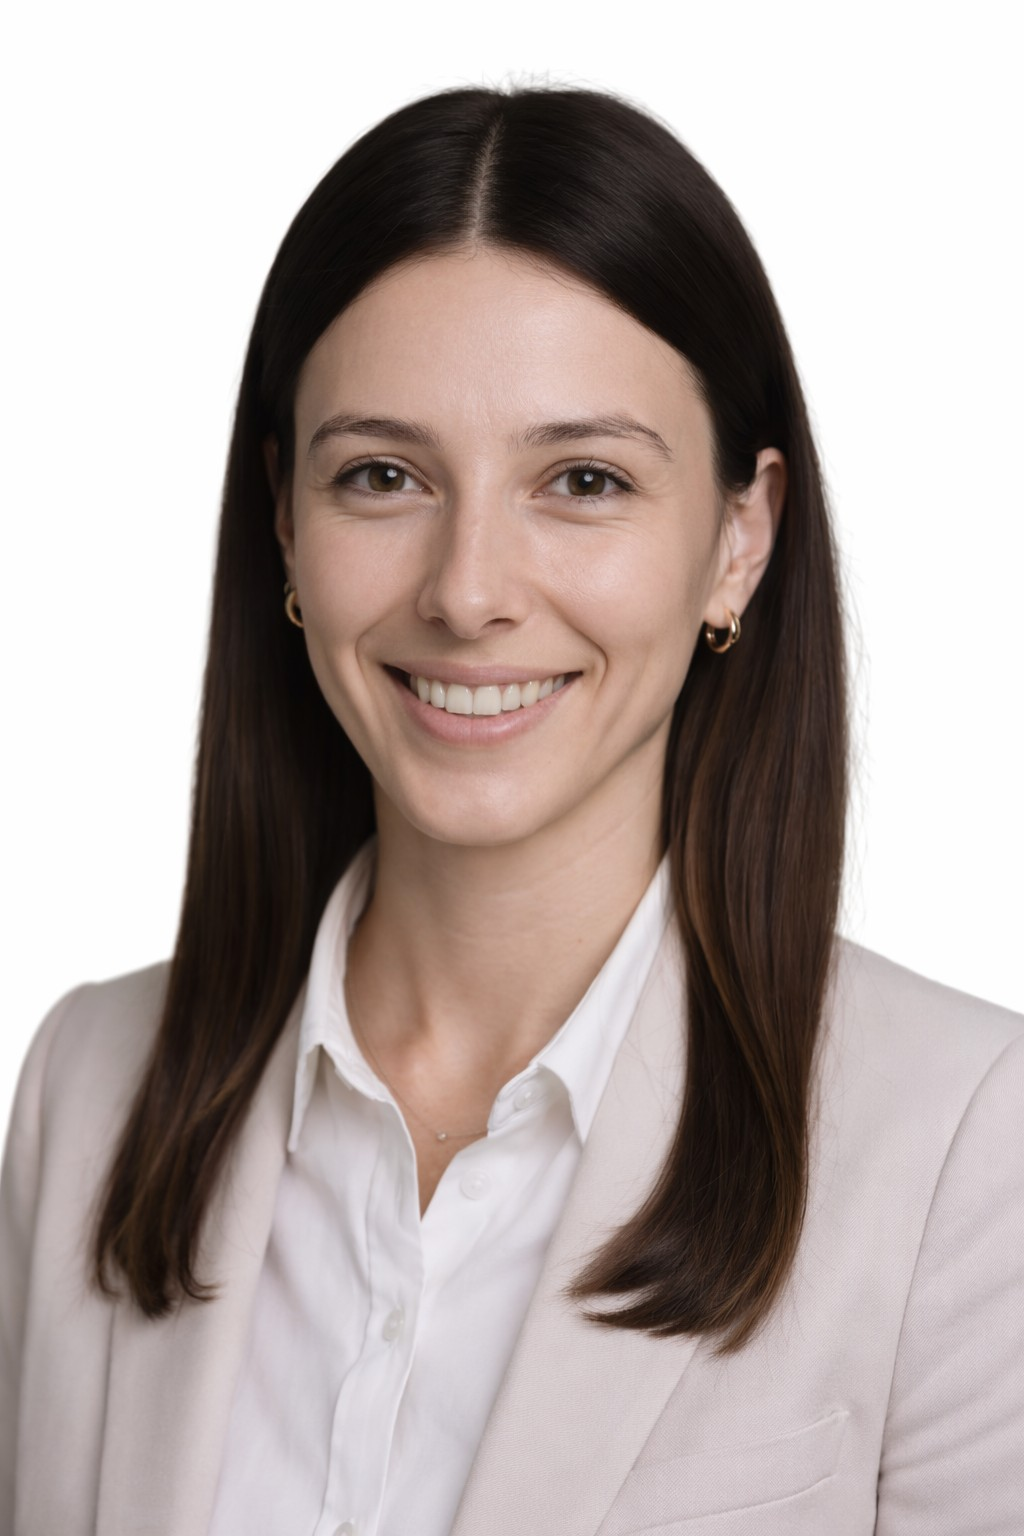
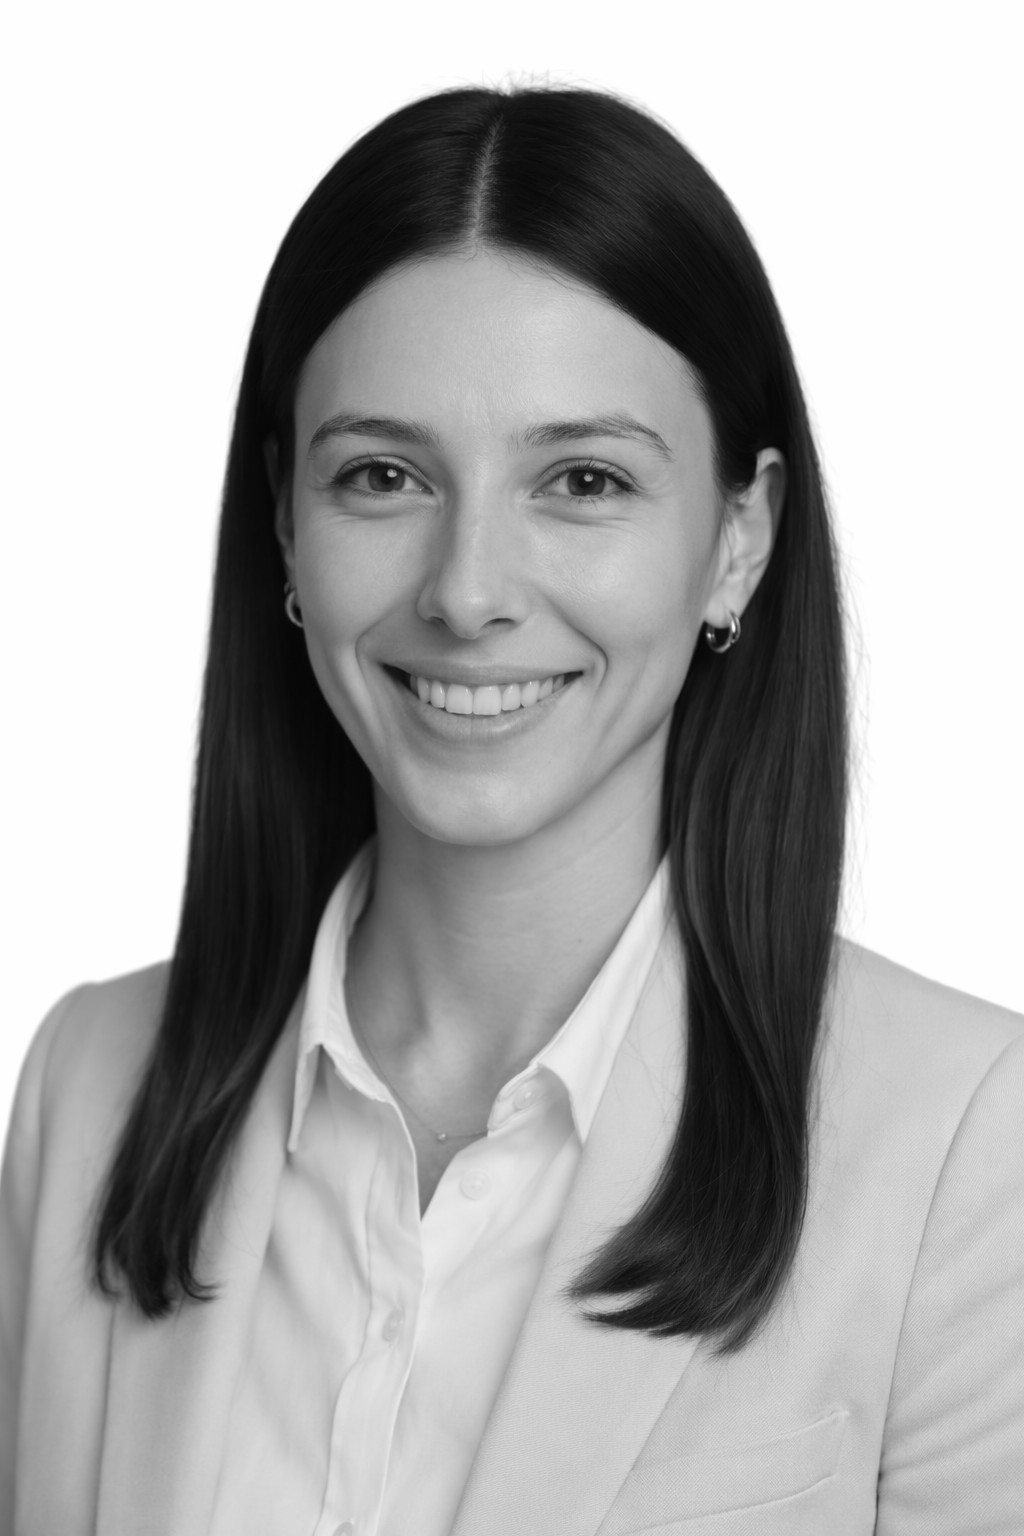
Leadership portraits: lossless B&W sources, higher-fidelity delivery
Re-master the four executive headshots from the full-resolution originals as
lossless grayscale PNGs (was: recompressed color JPEGs relying on the CSS
grayscale filter), and stop under-requesting them at render time. Cards asked
for 320px at q82, so a 592px retina card got a 640w q82 webp and every face
read soft; the modal reused the same 320px hint at ~2x the display size.

Changed region(s): [[0.2812, 0.1562, 0.7812, 0.7812], [0.75, 0.8125, 0.7812, 0.8438]]

diff --git a/src/components/TeamGrid.tsx b/src/components/TeamGrid.tsx
@@ -8,10 +8,16 @@ function usablePhoto(m: LeadershipMember) {
   return m.photo && m.photo.startsWith("/") ? m.photo : null;
 }
 
-function Portrait({ m, className = "" }: { m: LeadershipMember; className?: string }) {
+// Portrait sources are already black and white and lossless, so the only thing
+// standing between the file and the screen is the delivery render: 320px at q82
+// was landing a 640w webp on a 592px-wide retina card and softening every face.
+const CARD_SIZES = "(max-width:768px) 50vw, 400px";
+const MODAL_SIZES = "(max-width:640px) 92vw, 520px";
+
+function Portrait({ m, sizes = CARD_SIZES, className = "" }: { m: LeadershipMember; sizes?: string; className?: string }) {
   const photo = usablePhoto(m);
   return photo ? (
-    <Image src={photo} alt={m.name} fill quality={82} sizes="(max-width:768px) 50vw, 320px" className={`object-cover object-top grayscale contrast-[1.02] ${className}`} />
+    <Image src={photo} alt={m.name} fill quality={95} sizes={sizes} className={`object-cover object-top grayscale contrast-[1.02] ${className}`} />
   ) : (
     <div className="absolute inset-0 flex items-center justify-center bg-ink-800">
       <span className="text-white/90 h2 tracking-tight">{m.initials}</span>
@@ -82,7 +88,7 @@ export function TeamGrid({ members, columns = 4 }: { members: LeadershipMember[]
             onClick={(e) => e.stopPropagation()}
           >
             <div className="relative aspect-[3/4] sm:aspect-auto sm:min-h-[440px] bg-paper-200">
-              <Portrait m={active} />
+              <Portrait m={active} sizes={MODAL_SIZES} />
             </div>
             <div className="p-8 lg:p-10">
               <button

diff --git a/next.config.ts b/next.config.ts
@@ -8,9 +8,11 @@ const nextConfig: NextConfig = {
     deviceSizes: [640, 750, 828, 1080, 1200, 1440, 1600, 2048],
     imageSizes: [16, 32, 64, 96, 128, 256, 384],
     // AVIF first: ~35% fewer bytes than webp at the same q, which is what buys
-    // the hero its LCP budget. Delivery only — q stays at 82.
+    // the hero its LCP budget. Delivery only.
     formats: ["image/avif", "image/webp"],
-    qualities: [82],
+    // 82 is the site default; 95 is reserved for the leadership portraits,
+    // where faces show codec softness at 82 and the files are small anyway.
+    qualities: [82, 95],
     remotePatterns: [
       { protocol: "https", hostname: "images.unsplash.com" },
       { protocol: "https", hostname: "www.perkways.com" },
